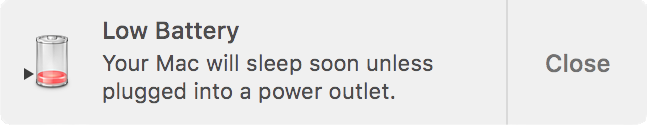
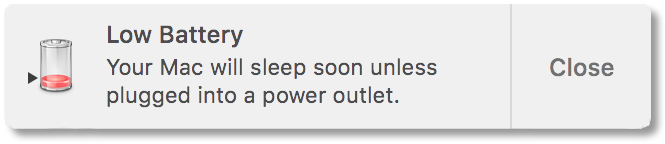
clean up code

diff --git a/reader.html b/reader.html
@@ -56,7 +56,7 @@
     </div>
 
     <div class="notification__image lowbatt">
-      <img src="assets/images/lowbatt.png" width="315px"alt="" />
+      <img src="assets/images/lowbatt.png" width="330px"alt="" />
     </div>
 
     <img class="popup p1" src="https://s-media-cache-ak0.pinimg.com/236x/23/2e/8e/232e8e0737387cccf1e926633d072376.jpg" alt="" />
@@ -69,7 +69,7 @@
 
 <div class="text">
 
-      <span class="chapter one"> 1.0</span> Are you reading this? And if you read that sentence, are you going to read the next one? If you didn’t leave this story after a few seconds, maybe we can keep you. We know that <span class="rollover willsmith">THE INTERNET</span> is changing how we interact with information, but it’s often accused of destroying our <span class="dummylink">attention spans</span>. Is it true?
+      <span class="chapter new one"> 1.0</span> Are you reading this? And if you read that sentence, are you going to read the next one? If you didn’t leave this story after a few seconds, maybe we can keep you. We know that <span class="rollover willsmith">THE INTERNET</span> is changing how we interact with information, but it’s often accused of destroying our <span class="dummylink">attention spans</span>. Is it true?
       <p>“On a functional level people have a much higher degree of distractibility, when it comes to digital technology,” explains <span class="rollover grocery">DR. DAVID GREENFIELD</span>, founder of the Center for Internet and Technology Addiction and Assistant Clinical Professor of Psychiatry at the University of Connecticut School of Medicine. “Whether those effects lead to long-lasting neurobiological changes we don’t know yet.”</p>
 
       <span class="chapter"> 1.1</span><span class="subheading"> Where’s the evidence?</span>
@@ -97,11 +97,33 @@
       <p>“The first thing you can do about it is turn off notifications, so your attention is not being pulled to the device all the time,” says Dr. Greenfield. “The next step is to turn it off and just check it when you need it. Don’t keep it on all the time, just check it at certain intervals throughout the day. With the exception of a few professions, most of us do not need to be contactable all the time.”</p>
       <p>It may be a few years before we know the full impact of the digital world on our brains, but few would argue about the merits of tuning out digital distractions from time to time. We don’t have to give up the Internet or throw our smartphones away, but we’ll benefit from mixing it up with a book or taking a walk on the beach.</p>
       <p>And if you read this far, pat yourself on the back. You may not have a problem at all.</p>
+
+<p><span class="chapter new two"> 2.0</span> Before the Internet, advertisers lived in the Dark Ages. If you wanted to run an ad campaign, you went to Don Draper. Draper would sip his whiskey and tell you what your next ad campaign would look like. "We're going to say that smoking keeps you skinny. Bottoms up, gentlemen!" And that was it. The next quarter you looked at your sales figures. If they were up, that meant the ad campaign had succeeded.</p>
+<p>The Internet was Christmas for advertisers. Suddenly you could know exactly who was looking at your ads, and you could target them by age, sex, income, location, almost any criterion you wanted.
+One of the first banner ads had a click-through rate of 78%. That's mind-boggling. Do you know what two words were on that banner ad? "Shop Naked!" CLICK! But banner ads turned out to be like poison ivy. People clicked them once, and learned never to touch them again. The industry collapsed in a flurry of pop-overs, pop-unders, and shame. Until Google discovered you could serve little text ads in context, and people would click on them. The whole industry climbed on this life raft, and remains there to this day. Advertising, or the promise of advertising, is the economic foundation of the world wide web.</p>
+<p>Advertising we all know. Someone pays you to convince your users that they'll be happy if they buy a product or service. Advertising is really lucrative if you run your own ad network. That's like running a casino. You can't help but make money.</p>
+<p>If you don't run your own ad network, advertising is a scary business. You bring your user data to the altar and sacrifice it to AdSense. If the AdSense gods are pleased, they rain earnings down upon you.</p>
+<p>But if the AdSense gods are angry, there is wailing, and gnashing of teeth. You rend your garments and ask forgiveness, but you can never be sure what you did wrong. Maybe you pray to Matt Cutts, the intercessionary saint at Google, who has been known to descend from the clouds and speak with a human voice.</p>
+<p>And your users, of course, HATE advertising. So to keep revenue from falling, you're stuck in an arms race where you have to keep changing up your approach.</p>
+<p>Right now, the frontier of advertising is in mobile apps. Next year it will be something else.</p>
+Maybe some of you have seen these things popping up recently; paid ads that pretend to be related links. In another few weeks, people will learn to tune them out, and a different plague of ads will descend on us.</p>
+<p>Advertising is like the flu. If it's not constantly changing, people develop immunity.</p>
+<p>Consider your own experience of targeted ads. Spend half an hour on the Internet with ad blocking turned off, if you dare. These "targeted" ads just don't target very well. They work on the same principle as spam: throw enough of this shit at a user, and someone is going to click.</p>
+<p>And it comes at such a steep price.</p>
+<p>Of course, for ad sellers, the crappiness of targeted ads is a feature! It means there's vast room for improvement. So many stories to tell the investors.</p>
+<p>This ghost of a business model propels us to ever greater extremes of surveillance. If the algorithms don't work, that's a sign we need more data. If the algorithms do work, then imagine how much better they'll work with more data. There's only one outcome allowed: collect more data.</p>
+<p>I don't oppose advertising. I think ads have an important role to play. But advertising, and stories about advertising, can't carry the weight of our entire industry.</p>
+
 </div>
 
+
 <div class="appear one__info">
-  Excerpt from <em>'Statistically, you’re only going to read 28 percent of this'</em> - by Simon Hill <a href="  https://www.digitaltrends.com/mobile/internet-age-attention-spans-experts-weigh-in/
-">(link)</a>
+  Excerpt from <em>'Statistically, you’re only going to read 28 percent of this'</em> - by Simon Hill <a href="  https://www.digitaltrends.com/mobile/internet-age-attention-spans-experts-weigh-in/">(link)</a>
+</div>
+
+<div class="appear two__info">
+  Excerpt from <em>'The Internet With A Human Face'
+  </em> - by Maciej Cegłowski <a href="  http://idlewords.com/talks/internet_with_a_human_face.htm">(link)</a>
 </div>
 
 <img class="rotate blur willsmith__image" src="assets/images/popup.png" alt="">

diff --git a/assets/css/reader.css b/assets/css/reader.css
@@ -7,7 +7,16 @@
 
 /* Start here */
 
-.one {
+/* chapters and footnotes */
+.chapter {
+  display: inline-block;
+  font-family: times, serif;
+  font-size: 20px;
+  font-weight: bold;
+}
+
+.new:hover {
+  text-decoration: underline;
   display: inline-block;
   cursor: pointer;
 }
@@ -21,17 +30,23 @@
 
 .appear.showme {
   display: inline-block;
-}
-
-.one__info {
-  top: 25px;
-  left: 20px;
-  border: 2px solid;
+  border: 1.5px solid;
   padding: 5px;
   font-size: 10px;
   width: 105px;
 }
 
+.one__info {
+  top: 25px;
+  left: 20px;
+}
+
+.two__info {
+  top: 7280px;
+  left: 20px;
+}
+
+/* color transition background */
 html,
 body {
   height: 100%;
@@ -63,6 +78,7 @@ body {
   100% { background-color: #fff7f1; }
 }
 
+/* scroll speed checker */
 .slowdown.show {
   display: flex;
 }
@@ -85,6 +101,7 @@ body {
     letter-spacing: 0.2px;
 }
 
+/* counter timer */
 .counter {
   font-family: helvetica, sans-serif;
   color: lightgrey;
@@ -94,22 +111,14 @@ body {
   left:35px;
 }
 
-body {
-font-family: helvetica, sans-serif;
-}
-
-.chapter {
-  display: inline-block;
-  font-family: times, serif;
-  font-size: 20px;
-  font-weight: bold;
-}
-
+/* subheadings within text */
 .subheading {
   font-weight: bold;
 }
 
+/* article texts and resizing */
 .text {
+  font-family: helvetica, sans-serif;
   transition:all 0.5s;
   width: 100%;
   font-size: 100px;
@@ -122,9 +131,9 @@ font-family: helvetica, sans-serif;
   font-size: 40px;
 }
 
+/* rollover serif bits of text, image appears */
 .rollover {
   font-family: times, serif;
-
 }
 
 .rollover:hover {
@@ -174,6 +183,7 @@ font-family: helvetica, sans-serif;
   left: 100px;
 }
 
+/* distracting popups */
 .popup {
   display: none;
   cursor: pointer;
@@ -187,28 +197,13 @@ font-family: helvetica, sans-serif;
   width: 250px;
 }
 
-.update {
-  display: none;
-  position: fixed;
-  top: 10px;
-  right: 4px;
-  cursor: pointer;
-}
-
-.lowbatt {
-  display: none;
-  position: fixed;
-  top: 10px;
-  right: 13px;
-  cursor: pointer;
-}
-
+/* distracting sidebar notifications*/
 .notif {
   color: #4D4D4D;
   padding-left: 5px;
 }
 
-/*flex not working?? */
+/* (flex not working??) */
 .notification.show {
   display: flex;
 }
@@ -231,6 +226,24 @@ font-family: helvetica, sans-serif;
     letter-spacing: 0.2px;
     cursor: pointer;
 }
+
+.update {
+  display: none;
+  position: fixed;
+  top: 10px;
+  right: 4px;
+  cursor: pointer;
+}
+
+.lowbatt {
+  display: none;
+  position: fixed;
+  top: 10px;
+  right: 4.5px;
+  cursor: pointer;
+}
+
+/* reader gameover screen when fake links are clicked */
 
 .gameover {
   width:100vw;
@@ -262,6 +275,7 @@ font-family: helvetica, sans-serif;
   cursor: pointer;
 }
 
+/* actual links to sources in footnotes */
 a {
   color: black;
 }

diff --git a/assets/js/reader.js b/assets/js/reader.js
@@ -91,13 +91,20 @@ $('.willsmith').mouseenter(function() {
   });
 
   //rollover chapter number
-  $('.one').mouseenter(function() {
-     $('.one__info').addClass('showme');
+  $('.one').click(function() {
+     $('.one__info').toggleClass('showme');
    });
 
-     $('.one__info').click(function() {
-       $(this).removeClass('showme');
-     });
+   $('.two').click(function() {
+      $('.two__info').toggleClass('showme');
+    });
+//  $('.one').mouseenter(function() {
+//     $('.one__info').addClass('showme');
+//   });
+
+//     $('.one__info').click(function() {
+//       $(this).removeClass('showme');
+//     });
 
 //  $('.showme').click(function() {
 //     $(this).parent().remove();

diff --git a/index.html b/index.html
@@ -68,7 +68,7 @@ Content Marketing’s Clickbait Problem Is Fueled By An Addiction To Clicks<span
 </div>
 <div class="title right">
 The Internet With A Human Face
-<span class="author"> / Maciej Ceglowski</span>
+<span class="author"> / Maciej Cegłowski</span>
 </div>
 <div class="title left">
 Why Buzzfeed Doesn’t Do Clickbait<span class="author"> / Ben Smith</span>
